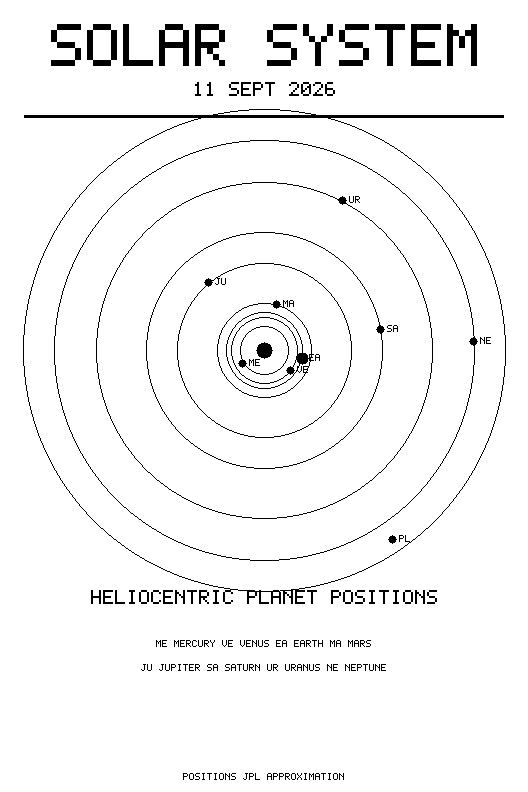
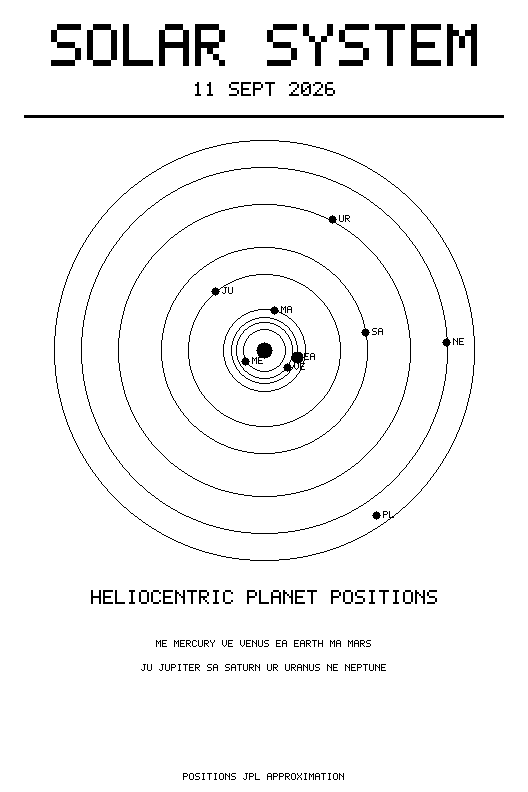
fix: keep Pluto's orbit inside the solar card
The chart scaled every orbit against a hard-coded 30.1 AU -- Neptune's
semi-major axis, correct until Pluto was added to the element table.
Pluto's 39.5 AU then drew the outermost circle a seventh larger than the
radius the caller had reserved, crossing the rule above the chart and
running through the caption below it, in both orientations.

Scale against whatever is actually furthest out, orbit and current
distance alike, so the chart fills its radius exactly and a later
addition to the table cannot push past it again.

Claude-Session: https://claude.ai/code/session_017RH7iJ888bk9azmQDYduaR

diff --git a/examples/cloudflare-dashboard-worker.js b/examples/cloudflare-dashboard-worker.js
@@ -1454,13 +1454,18 @@ function drawCircleOutline(canvas, cx, cy, radius) {
 }
 
 function drawSolarChart(canvas, planets, cx, cy, radius) {
+  // Scale to whatever is actually outermost, orbit and current distance alike,
+  // so the chart fills the radius the caller reserved and never exceeds it.
+  // A constant tuned for Neptune put Pluto's orbit a seventh of the way past
+  // it, across the rule above the chart and the caption below.
+  const outermost = planets.reduce((furthest, planet) => Math.max(furthest, planet.a, planet.distance), 1);
   for (const planet of planets) {
-    drawCircleOutline(canvas, cx, cy, Math.max(8, Math.round(radius * Math.sqrt(planet.a / 30.1))));
+    drawCircleOutline(canvas, cx, cy, Math.max(8, Math.round(radius * Math.sqrt(planet.a / outermost))));
   }
   fillCircle(canvas, cx, cy, 8);
   for (const planet of planets) {
     const angle = Math.atan2(planet.y, planet.x);
-    const distance = radius * Math.sqrt(planet.distance / 30.1);
+    const distance = radius * Math.sqrt(planet.distance / outermost);
     const x = Math.round(cx + Math.cos(angle) * distance);
     const y = Math.round(cy - Math.sin(angle) * distance);
     fillCircle(canvas, x, y, planet.name === "EA" ? 6 : 4);
